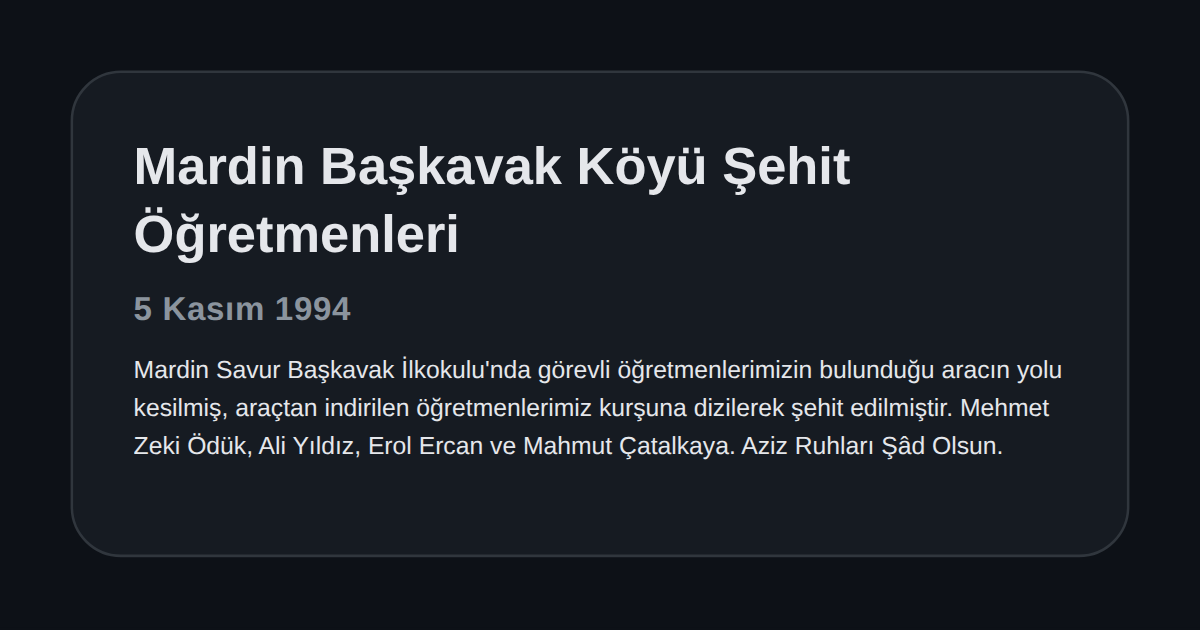
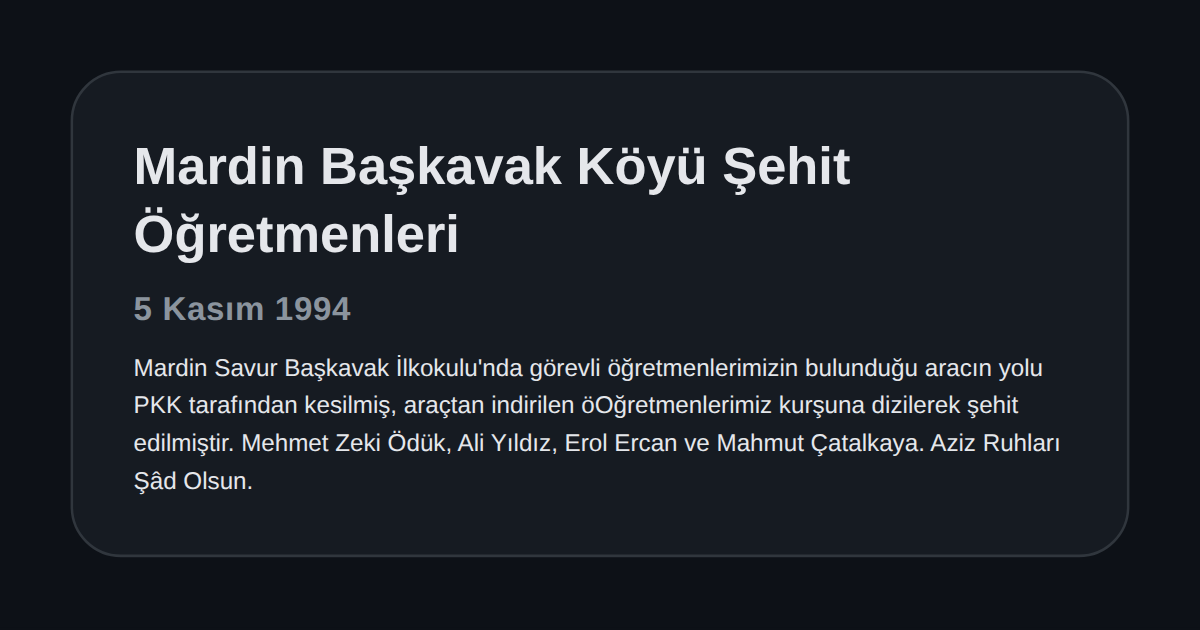
Generate milli takvim share files

Changed region(s): [[0.0925, 0.573, 0.8942, 0.7238], [0.0925, 0.754, 0.2158, 0.7841]]

diff --git a/blog/docs/milli-takvim/paylas/11-05-1994-mardin-baskavak-koyu-sehit-ogretmenleri.html b/blog/docs/milli-takvim/paylas/11-05-1994-mardin-baskavak-koyu-sehit-ogretmenleri.html
@@ -4,13 +4,13 @@
 <meta charset="UTF-8">
 <meta name="viewport" content="width=device-width, initial-scale=1.0">
 <title>Mardin Başkavak Köyü Şehit Öğretmenleri (5 Kasım 1994) | Milli Takvim</title>
-<meta name="description" content="Mardin Savur Başkavak İlkokulu&#39;nda görevli öğretmenlerimizin bulunduğu aracın yolu kesilmiş, araçtan indirilen öğretmenlerimiz kurşuna dizilerek şehit edilmiştir. Mehmet Zeki Ödük, Ali Yıldız, Erol…">
+<meta name="description" content="Mardin Savur Başkavak İlkokulu&#39;nda görevli öğretmenlerimizin bulunduğu aracın yolu PKK tarafından kesilmiş, araçtan indirilen öOğretmenlerimiz kurşuna dizilerek şehit edilmiştir. Mehmet Zeki Ödük…">
 <link rel="canonical" href="https://w01ki3.github.io/blog/docs/milli-takvim/paylas/11-05-1994-mardin-baskavak-koyu-sehit-ogretmenleri.html">
 <meta property="og:type" content="article">
 <meta property="og:site_name" content="Milli Takvim">
 <meta property="og:locale" content="tr_TR">
 <meta property="og:title" content="Mardin Başkavak Köyü Şehit Öğretmenleri (5 Kasım 1994)">
-<meta property="og:description" content="Mardin Savur Başkavak İlkokulu&#39;nda görevli öğretmenlerimizin bulunduğu aracın yolu kesilmiş, araçtan indirilen öğretmenlerimiz kurşuna dizilerek şehit edilmiştir. Mehmet Zeki Ödük, Ali Yıldız, Erol…">
+<meta property="og:description" content="Mardin Savur Başkavak İlkokulu&#39;nda görevli öğretmenlerimizin bulunduğu aracın yolu PKK tarafından kesilmiş, araçtan indirilen öOğretmenlerimiz kurşuna dizilerek şehit edilmiştir. Mehmet Zeki Ödük…">
 <meta property="og:url" content="https://w01ki3.github.io/blog/docs/milli-takvim/paylas/11-05-1994-mardin-baskavak-koyu-sehit-ogretmenleri.html">
 <meta property="og:image" content="https://w01ki3.github.io/blog/docs/milli-takvim/paylas/11-05-1994-mardin-baskavak-koyu-sehit-ogretmenleri.png">
 <meta property="og:image:type" content="image/png">
@@ -19,7 +19,7 @@
 <meta property="og:image:alt" content="Mardin Başkavak Köyü Şehit Öğretmenleri (5 Kasım 1994)">
 <meta name="twitter:card" content="summary_large_image">
 <meta name="twitter:title" content="Mardin Başkavak Köyü Şehit Öğretmenleri (5 Kasım 1994)">
-<meta name="twitter:description" content="Mardin Savur Başkavak İlkokulu&#39;nda görevli öğretmenlerimizin bulunduğu aracın yolu kesilmiş, araçtan indirilen öğretmenlerimiz kurşuna dizilerek şehit edilmiştir. Mehmet Zeki Ödük, Ali Yıldız, Erol…">
+<meta name="twitter:description" content="Mardin Savur Başkavak İlkokulu&#39;nda görevli öğretmenlerimizin bulunduğu aracın yolu PKK tarafından kesilmiş, araçtan indirilen öOğretmenlerimiz kurşuna dizilerek şehit edilmiştir. Mehmet Zeki Ödük…">
 <meta name="twitter:image" content="https://w01ki3.github.io/blog/docs/milli-takvim/paylas/11-05-1994-mardin-baskavak-koyu-sehit-ogretmenleri.png">
 <meta name="twitter:image:alt" content="Mardin Başkavak Köyü Şehit Öğretmenleri (5 Kasım 1994)">
 <meta name="theme-color" content="#ff0000ff">
